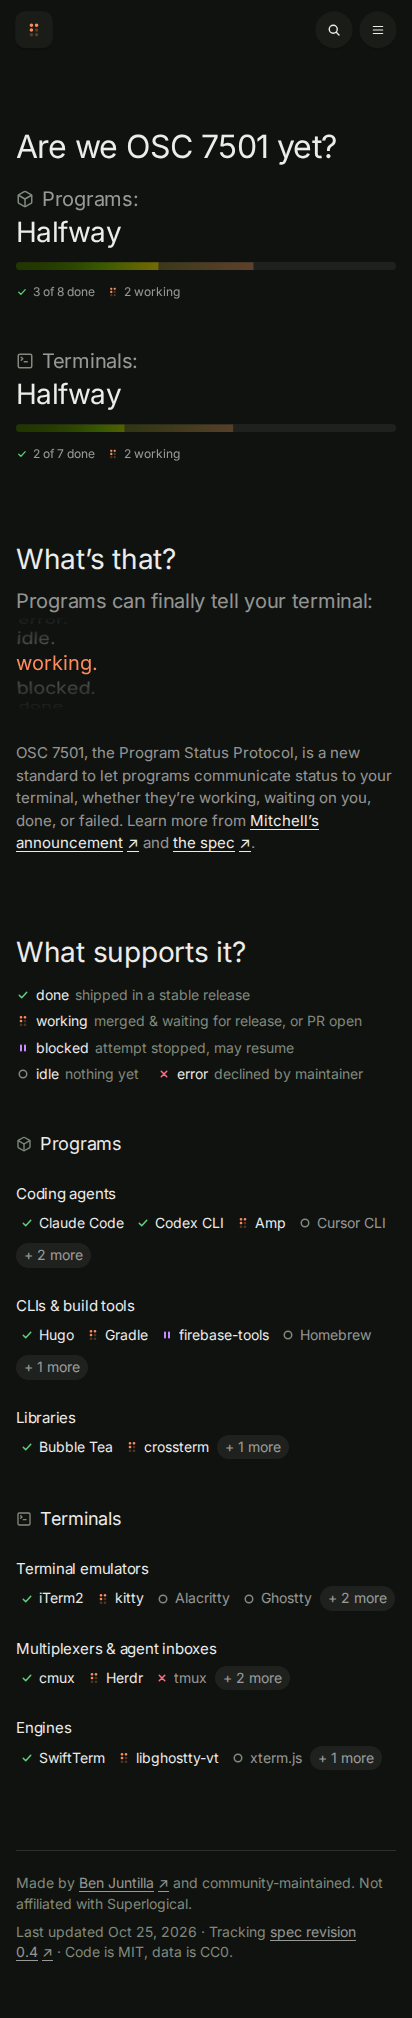
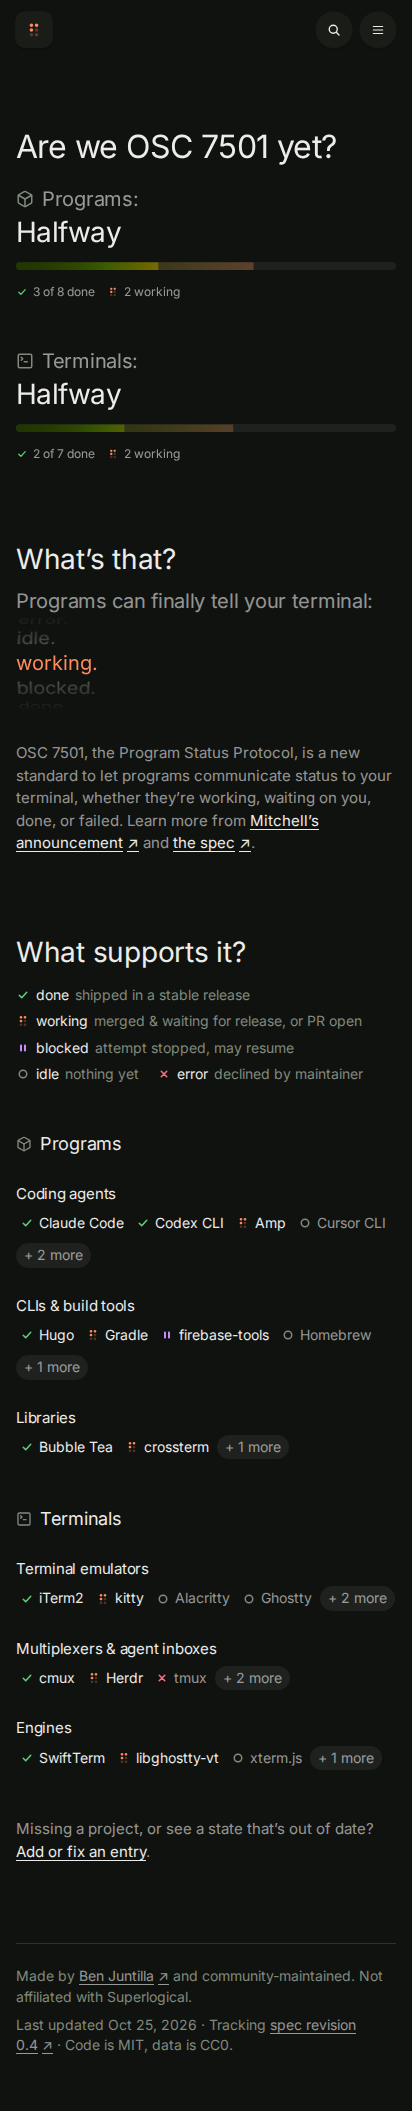
feat: add the contribute page and unfold each page's sections in the nav

diff --git a/src/lib/components/Nav.svelte b/src/lib/components/Nav.svelte
@@ -1,7 +1,9 @@
 <script lang="ts">
 	import { page } from '$app/state';
 	import type { Side } from '#lib/domain/overview.ts';
+	import { tocs } from '#lib/toc.ts';
 	import Icon from './Icon.svelte';
+	import StateGlyph from './StateGlyph.svelte';
 
 	interface Props {
 		sides: ReadonlyArray<Side>;
@@ -14,7 +16,10 @@
 	// The sidebar and the phone menu each render a nav, so its ids need a per-instance prefix.
 	const uid = $props.id();
 
-	const about = [{ href: '/test', label: 'Test your terminal' }];
+	const about = [
+		{ href: '/test', label: 'Test your terminal' },
+		{ href: '/contribute', label: 'Contribute' }
+	];
 	const resources = [
 		{ href: '/feed.xml', label: 'Atom feed', reload: true },
 		{ href: '/data.json', label: 'Data as JSON', reload: true },
@@ -22,8 +27,32 @@
 	];
 
 	const here = (href: string) => (page.url.pathname === href ? 'page' : undefined);
-	const at = (id: string) => (page.url.pathname === '/' && current === id ? 'location' : undefined);
+	const at = (path: string, id: string) =>
+		page.url.pathname === path && current === id ? 'location' : undefined;
 </script>
+
+{#snippet toc(path: string)}
+	{@const entries = tocs[path]}
+	{#if entries}
+		<!-- Only the current page's sections unfold; the others fold away and leave the tab order. -->
+		<div class="unfold" class:open={here(path)} inert={!here(path)}>
+			<ul class="toc">
+				{#each entries as entry (entry.id)}
+					<li>
+						<a
+							class="toc-link"
+							href="{path}#{entry.id}"
+							aria-current={at(path, entry.id)}
+							onclick={onnavigate}
+						>
+							{#if entry.state}<StateGlyph state={entry.state} size={12} />{/if}{entry.label}
+						</a>
+					</li>
+				{/each}
+			</ul>
+		</div>
+	{/if}
+{/snippet}
 
 <nav class="nav" aria-label="Sections">
 	<ul>
@@ -37,7 +66,7 @@
 						<a
 							class="toc-link side"
 							href="/#{side.id}"
-							aria-current={at(side.id)}
+							aria-current={at('/', side.id)}
 							onclick={onnavigate}
 						>
 							<Icon name={side.role} size={12} />{side.name}
@@ -48,7 +77,7 @@
 									<a
 										class="toc-link"
 										href="/#{category.id}"
-										aria-current={at(category.id)}
+										aria-current={at('/', category.id)}
 										onclick={onnavigate}>{category.name}</a
 									>
 								</li>
@@ -66,6 +95,7 @@
 				<a class="item" href={link.href} aria-current={here(link.href)} onclick={onnavigate}
 					>{link.label}</a
 				>
+				{@render toc(link.href)}
 			</li>
 		{/each}
 	</ul>
@@ -80,6 +110,7 @@
 					data-sveltekit-reload={link.reload ? '' : undefined}
 					onclick={onnavigate}>{link.label}</a
 				>
+				{@render toc(link.href)}
 			</li>
 		{/each}
 	</ul>
@@ -183,6 +214,36 @@
 
 	.toc-link:hover {
 		color: var(--nav-item-hover);
+	}
+
+	.unfold {
+		display: grid;
+		grid-template-rows: 0fr;
+		opacity: 0;
+		transition:
+			grid-template-rows var(--motion-toc-unfold-duration) var(--motion-ease-unfold),
+			opacity var(--motion-toc-unfold-duration) var(--motion-ease-unfold);
+	}
+
+	.unfold.open {
+		grid-template-rows: 1fr;
+		opacity: 1;
+	}
+
+	.unfold > .toc {
+		min-block-size: 0;
+		overflow: hidden;
+	}
+
+	/* A 0fr row still shows its item's padding, so a folded list drops it. */
+	.unfold:not(.open) > .toc {
+		padding-block-end: 0;
+	}
+
+	@media (prefers-reduced-motion: reduce) {
+		.unfold {
+			transition: none;
+		}
 	}
 
 	.side :global(svg) {

diff --git a/src/routes/contribute/+page.svelte b/src/routes/contribute/+page.svelte
@@ -1,0 +1,58 @@
+<script lang="ts">
+	import { siteTitle } from '#lib/meta.ts';
+	import CodeCard from '#lib/components/CodeCard.svelte';
+	import { contributeSections } from '#lib/toc.ts';
+	import type { PageProps } from './$types';
+
+	let { data }: PageProps = $props();
+
+	const [report, edit, site] = contributeSections;
+	const repo = 'https://github.com/benjuntilla/areweosc7501yet';
+</script>
+
+<svelte:head>
+	<title>Contribute · {siteTitle}</title>
+	<meta name="description" content="Report a change or edit the data behind {siteTitle}" />
+</svelte:head>
+
+<article class="page">
+	<h1 class="type-h1">Contribute</h1>
+
+	<section aria-labelledby={report.id}>
+		<h2 class="type-h2" id={report.id}>{report.label}</h2>
+		<p>
+			Use <a href="{repo}/issues/new?template=report-a-change.yml">the issue form</a>. Give the
+			project name and a link that shows its state. If a release contains the support, also give the
+			version.
+		</p>
+	</section>
+
+	<section aria-labelledby={edit.id}>
+		<h2 class="type-h2" id={edit.id}>{edit.label}</h2>
+		<p>
+			<a href="{repo}/pulls">Pull requests</a> are welcome. Each entry is one TOML file in
+			<a href="{repo}/tree/main/data/entries"><code>data/entries/</code></a>, named after the
+			project. The <code>[[history]]</code> blocks are in chronological order, so the last block
+			shows the current state and its source. If the state changes, add a new block at the end. If
+			the new state is done and the project is on GitHub, add <code>version</code> with the release that
+			contains the support. Use a primary source, such as the PR or the release notes.
+		</p>
+		<p>As an example, this is the file for kitty:</p>
+		<CodeCard label="data/entries/kitty.toml" code={data.kitty} html={data.html} />
+		<p>
+			The weekly checker writes the <code>[github]</code> table. Do not change this table. If the
+			checker cannot follow the last block, set <code>last_checked_date</code> to the date that you examined
+			the source. The checker can follow a PR, an issue, a commit, or a release in the GitHub repo of
+			the project.
+		</p>
+	</section>
+
+	<section aria-labelledby={site.id}>
+		<h2 class="type-h2" id={site.id}>{site.label}</h2>
+		<p>
+			The site uses SvelteKit and plain CSS, and runs on Cloudflare. The code is MIT, and the data
+			is CC0. <a href="/data.json" data-sveltekit-reload><code>/data.json</code></a> has the full
+			list. Report bugs and ideas for the site in <a href="{repo}/issues">GitHub issues</a>.
+		</p>
+	</section>
+</article>

diff --git a/src/routes/+layout.svelte b/src/routes/+layout.svelte
@@ -3,7 +3,6 @@
 	import '../styles/base.css';
 	import inter from '@fontsource-variable/inter/files/inter-latin-wght-normal.woff2?url';
 	import { afterNavigate, beforeNavigate } from '$app/navigation';
-	import { page } from '$app/state';
 	import Footer from '#lib/components/Footer.svelte';
 	import Rail from '#lib/components/Rail.svelte';
 	import SearchDialog from '#lib/components/SearchDialog.svelte';
@@ -16,10 +15,6 @@
 
 	let searchDialog: SearchDialog | undefined = $state();
 	let current: string | undefined = $state();
-
-	const sectionIds = $derived(
-		data.sides.flatMap((side) => [side.id].concat(side.categories.map((c) => c.id)))
-	);
 
 	const onsearch = (trigger: HTMLElement) => void searchDialog?.open(trigger);
 
@@ -47,21 +42,6 @@
 	afterNavigate(() => {
 		document.documentElement.style.scrollBehavior = '';
 	});
-
-	// The overview's sections come and go with the page, so look them up on each scroll.
-	const onscroll = () => {
-		const sections = sectionIds.flatMap((id) => document.querySelector(`#${id}`) ?? []);
-		current = sections.findLast((s) => s.getBoundingClientRect().top < innerHeight / 3)?.id;
-	};
-
-	$effect(() => {
-		if (page.url.pathname !== '/') return;
-		onscroll();
-		addEventListener('scroll', onscroll, { passive: true });
-		return () => {
-			removeEventListener('scroll', onscroll);
-		};
-	});
 </script>
 
 <svelte:head>
@@ -74,7 +54,7 @@
 
 <a class="skip-link" href="#content">Skip to content</a>
 
-<Sidebar sides={data.sides} {current} {onsearch} />
+<Sidebar sides={data.sides} bind:current {onsearch} />
 
 <div class="column">
 	<TopBar sides={data.sides} {current} {onsearch} />

diff --git a/src/lib/client/spy.ts b/src/lib/client/spy.ts
@@ -1,0 +1,25 @@
+import { tocs } from '../toc.ts';
+
+/** The sections scroll-spy follows: the overview's on /, the page's own table of contents elsewhere. */
+export const sectionIds = (path: string, overview: ReadonlyArray<string>): ReadonlyArray<string> =>
+	path === '/' ? overview : (tocs[path] ?? []).map((e) => e.id);
+
+/** Reports the section nearest the top of the window now and on every scroll. Returns the cleanup. */
+export const spy = (ids: ReadonlyArray<string>, onchange: (id: string | undefined) => void) => {
+	// The overview's sections come and go with the page, so look them up on each scroll.
+	const onscroll = () => {
+		const sections = ids.flatMap((id) => document.querySelector(`#${CSS.escape(id)}`) ?? []);
+		// A short last section never reaches the line, so the bottom of the page selects it.
+		const atBottom =
+			scrollY > 0 && innerHeight + scrollY >= document.documentElement.scrollHeight - 1;
+		const current = atBottom
+			? sections.at(-1)
+			: sections.findLast((s) => s.getBoundingClientRect().top < innerHeight / 3);
+		onchange(current?.id);
+	};
+	onscroll();
+	addEventListener('scroll', onscroll, { passive: true });
+	return () => {
+		removeEventListener('scroll', onscroll);
+	};
+};

diff --git a/src/lib/components/SearchDialog.svelte b/src/lib/components/SearchDialog.svelte
@@ -161,7 +161,15 @@
 			{/each}
 		</div>
 	{:else if find !== undefined && q !== ''}
-		<p class="empty type-h3">Nothing matches “{q}”.</p>
+		<div class="empty">
+			<p class="type-h3">Nothing matches “{q}”.</p>
+			<p class="type-body">
+				If you think it belongs here, <a href="/contribute" onclick={() => dialog?.close()}
+					>add it</a
+				>
+				and we’ll check.
+			</p>
+		</div>
 	{/if}
 	<p class="visually-hidden" role="status">
 		{q === '' ? '' : `${matches.length} ${matches.length === 1 ? 'match' : 'matches'}`}
@@ -292,8 +300,16 @@
 	}
 
 	.empty {
+		display: flex;
+		flex-direction: column;
+		gap: var(--search-dialog-empty-gap);
 		padding: var(--search-dialog-empty-padding-top) var(--search-dialog-input-padding-x)
 			var(--search-dialog-empty-padding-bottom);
+		color: var(--search-dialog-meta);
+	}
+
+	.empty a {
+		color: var(--search-dialog-text);
 	}
 
 	/* The button and the dialog trade places: their snapshots stay unscaled at the top left while

diff --git a/src/lib/components/Sidebar.svelte b/src/lib/components/Sidebar.svelte
@@ -1,4 +1,6 @@
 <script lang="ts">
+	import { page } from '$app/state';
+	import { sectionIds, spy } from '#lib/client/spy.ts';
 	import type { Side } from '#lib/domain/overview.ts';
 	import Logo from './Logo.svelte';
 	import Nav from './Nav.svelte';
@@ -7,11 +9,25 @@
 
 	interface Props {
 		sides: ReadonlyArray<Side>;
+		/** The section in view, from scroll-spy, for the nav here and in the phone menu. */
 		current?: string | undefined;
 		onsearch: (trigger: HTMLElement) => void;
 	}
 
-	let { sides, current, onsearch }: Props = $props();
+	let { sides, current = $bindable(), onsearch }: Props = $props();
+
+	const ids = $derived(
+		sectionIds(
+			page.url.pathname,
+			sides.flatMap((side) => [side.id].concat(side.categories.map((c) => c.id)))
+		)
+	);
+
+	$effect(() =>
+		spy(ids, (id) => {
+			current = id;
+		})
+	);
 </script>
 
 <header class="sidebar">

diff --git a/src/lib/toc.ts b/src/lib/toc.ts
@@ -1,0 +1,19 @@
+import type { State } from './domain/schema.ts';
+
+export interface TocEntry {
+	readonly id: string;
+	readonly label: string;
+	/** Shows the state's glyph in front, for Methodology's definitions. */
+	readonly state?: State;
+}
+
+export const contributeSections = [
+	{ id: 'report-a-change', label: 'Report a change' },
+	{ id: 'edit-the-data', label: 'Edit the data' },
+	{ id: 'the-site', label: 'The site' }
+] as const satisfies ReadonlyArray<TocEntry>;
+
+/** Each text page's sections, in page order. The nav unfolds them under the current page. */
+export const tocs: Readonly<Record<string, ReadonlyArray<TocEntry>>> = {
+	'/contribute': contributeSections
+};

diff --git a/src/routes/+page.svelte b/src/routes/+page.svelte
@@ -127,6 +127,12 @@
 	{#each data.roles as role (role.id)}
 		<Role {role} bind:expanded {highlight} />
 	{/each}
+
+	<p class="cta">
+		Missing a project, or see a state that’s out of date? <a href="/contribute"
+			>Add or fix an entry</a
+		>.
+	</p>
 </section>
 
 <style>
@@ -190,5 +196,9 @@
 		display: flex;
 		flex-direction: column;
 		gap: var(--heading-legend-gap);
+	}
+
+	.cta a {
+		color: var(--content-text-strong);
 	}
 </style>

diff --git a/src/styles/tokens.css b/src/styles/tokens.css
@@ -380,6 +380,7 @@
 	--search-dialog-backdrop: var(--effect-backdrop);
 	--search-dialog-background: var(--color-surface);
 	--search-dialog-caret: var(--color-accent);
+	--search-dialog-empty-gap: var(--space-6);
 	--search-dialog-empty-padding-bottom: var(--space-20);
 	--search-dialog-empty-padding-top: var(--space-4);
 	--search-dialog-esc-size: var(--font-size-19);

diff --git a/src/routes/contribute/+page.server.ts b/src/routes/contribute/+page.server.ts
@@ -1,0 +1,6 @@
+import { highlight } from '#lib/server/highlight.ts';
+import { Effect } from 'effect';
+import kitty from '$data/entries/kitty.toml?raw';
+
+export const load = () =>
+	Effect.runPromise(highlight(kitty, 'toml').pipe(Effect.map((html) => ({ kitty, html }))));
